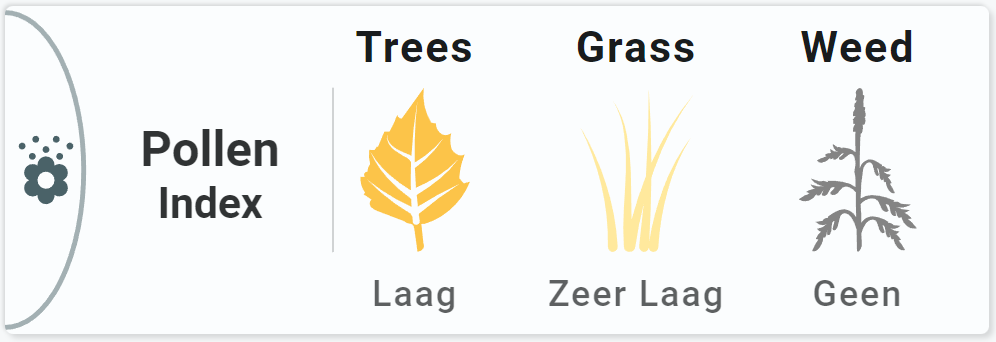
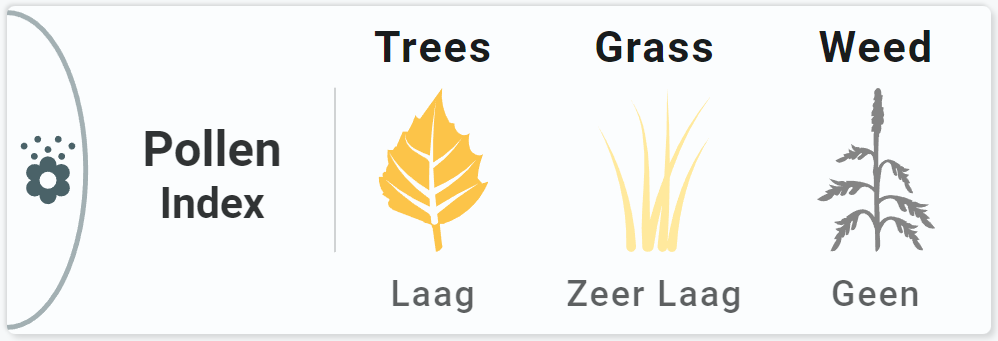
Update images Tomorrow Pollen All card

diff --git a/docs/design/functional-card-tomorrow-pollen-all-card.md b/docs/design/functional-card-tomorrow-pollen-all-card.md
@@ -167,7 +167,7 @@ This card uses the [Material 3 theme D06, TealBlue][ham3-d06-url]
           # ================================================================
           - toolset: pollen-column-trees
             position:
-              cx: 250
+              cx: 260
               cy: 100
             tools:
               # ------------------------------------------------------------
@@ -217,7 +217,7 @@ This card uses the [Material 3 theme D06, TealBlue][ham3-d06-url]
           # ================================================================
           - toolset: pollen-column-grass
             position:
-              cx: 385
+              cx: 395
               cy: 100
             tools:
               # ------------------------------------------------------------
@@ -267,7 +267,7 @@ This card uses the [Material 3 theme D06, TealBlue][ham3-d06-url]
           # ================================================================
           - toolset: pollen-column-weed
             position:
-              cx: 520
+              cx: 530
               cy: 100
             tools:
               # ------------------------------------------------------------
